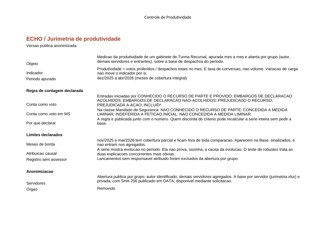
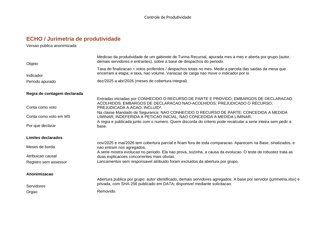
Auditoria P0: nome único do indicador, datas de versão e TROIA
- Hub: "taxa de finalização" no lugar de "entregas conclusivas".
- Controle de Produtividade: indicador renomeado para taxa de
  finalização, com definição; prévia regenerada.
- ATRIO: nota da matriz remete às datas em Evolução; fichas técnicas
  com a data da versão vigente; TROIA citado na arquitetura do RATIO.
- i18n: catálogos EN e páginas EN regenerados.

Claude-Session: https://claude.ai/code/session_01LCaDHpGpC5UNHio4tGaoo2

diff --git a/en/atrio.html b/en/atrio.html
@@ -165,7 +165,7 @@
         <article class="board architecture-board">
           <header class="board-header"><div class="section-index"><strong>02</strong></div><h2>Architecture</h2></header>
           <section class="at-mx" id="at-mx" aria-labelledby="at-mx-t">
-            <header class="at-mx__head"><p class="at-k">Technical sheets</p><h3 class="at-t" id="at-mx-t">Five modules read through the same fields</h3><p class="at-mx__ev">Evidence: [<i class="raw" lang="en">raw</i>] marks verified raw data; the other figures are declared by the author, with no raw record located. Version dates not located.</p></header>
+            <header class="at-mx__head"><p class="at-k">Technical sheets</p><h3 class="at-t" id="at-mx-t">Five modules read through the same fields</h3><p class="at-mx__ev">Evidence: [<i class="raw" lang="en">raw</i>] marks verified raw data; the other figures are declared by the author, with no raw record located. Version dates are under Evolution; the earliest CORPUS and CERNE versions have no recoverable date.</p></header>
             <div class="at-mx__wrap" role="region" aria-labelledby="at-mx-t" tabindex="0">
               <table class="at-mx__table" role="table">
                 <thead role="rowgroup"><tr role="row"><td role="cell"></td><th scope="col" role="columnheader" data-col="atrio"><img class="at-mx__sym" src="../assets/atrio/brand/atrio-rei.svg" alt="" width="44" height="44" loading="lazy" decoding="async"><span class="at-mx__name">A<em>T</em>RIO</span><span class="at-mx__role">Orchestration</span><span class="at-mx__ver">v.0.7.0</span></th><th scope="col" role="columnheader" data-col="corpus"><img class="at-mx__sym" src="../assets/atrio/brand/corpus-torre.svg" alt="" width="44" height="44" loading="lazy" decoding="async"><span class="at-mx__name">C<em>O</em>RPUS</span><span class="at-mx__role">Documentary memory</span><span class="at-mx__ver">v.1.5.0</span></th><th scope="col" role="columnheader" data-col="ratio"><img class="at-mx__sym" src="../assets/atrio/brand/ratio-cavalo.svg" alt="" width="44" height="44" loading="lazy" decoding="async"><span class="at-mx__name">R<em>A</em>TIO</span><span class="at-mx__role">Decision drafting</span><span class="at-mx__ver">v.8.0.0</span></th><th scope="col" role="columnheader" data-col="cerne"><img class="at-mx__sym" src="../assets/atrio/brand/cerne-rainha.svg" alt="" width="44" height="44" loading="lazy" decoding="async"><span class="at-mx__name">C<em>E</em>RNE</span><span class="at-mx__role">Reasoning audit</span><span class="at-mx__ver">v.5.1.0</span></th><th scope="col" role="columnheader" data-col="lux"><img class="at-mx__sym" src="../assets/atrio/brand/lux-bispo.svg" alt="" width="44" height="44" loading="lazy" decoding="async"><span class="at-mx__name">L<em>U</em>X</span><span class="at-mx__role">Formal refinement</span><span class="at-mx__ver">v.6.0.0</span></th></tr></thead>
@@ -173,7 +173,7 @@
                   <tr role="row" class="at-mx__fn"><th scope="row" role="rowheader">Function</th><td role="cell" data-col="atrio">Chains four modules, records each stage, and releases the document only after a human decision.</td><td role="cell" data-col="corpus">Pseudonymizes legal documents; the original and the vault are kept separate.</td><td role="cell" data-col="ratio">Produces draft decisions in phases and only advances upon a recorded human choice.</td><td role="cell" data-col="cerne">Audits the reasoning of judicial rulings through anchored questions; it does not decide the merits.</td><td role="cell" data-col="lux">Refines legal texts, protects data according to destination, and preserves the merits.</td></tr>
                   <tr role="row"><th scope="row" role="rowheader">Input</th><td role="cell" data-col="atrio">TXT, DOCX, or PDF file and a declared destination (internal, external, or public).</td><td role="cell" data-col="corpus">PDF or TXT files, with local OCR for scans and identification by hash.<div class="at-mx__evwrap"><button class="at-mx__btn at-mx__btn--ghost at-mx__ev" type="button" data-evidence="corpus-entrada" aria-haspopup="dialog" aria-controls="evidence-note" aria-expanded="false" aria-label="Evidence: CORPUS, input">Evidence <span aria-hidden="true">→</span></button></div></td><td role="cell" data-col="ratio">Document and case file, with the chosen track: small-claims appeal, motion for clarification, or writ of mandamus.</td><td role="cell" data-col="cerne">Injunction, judgment, opinion, or appellate decision, with its source and between 40 and 250,000 characters.</td><td role="cell" data-col="lux">Finalized legal text and the declared destination; if none is given, the destination is public.</td></tr>
                   <tr role="row"><th scope="row" role="rowheader">Output</th><td role="cell" data-col="atrio">Released document and a record of the events, states, and versions of each run.</td><td role="cell" data-col="corpus">Pseudonymized text; original preserved; separate vault; inventory and log.<div class="at-mx__evwrap"><button class="at-mx__btn at-mx__btn--ghost at-mx__ev" type="button" data-evidence="corpus-saida" aria-haspopup="dialog" aria-controls="evidence-note" aria-expanded="false" aria-label="Evidence: CORPUS, output">Evidence <span aria-hidden="true">→</span></button></div></td><td role="cell" data-col="ratio">Traceable draft, case status, and pending items, with the status of each phase.<div class="at-mx__evwrap"><button class="at-mx__btn at-mx__btn--ghost at-mx__ev" type="button" data-evidence="ratio-saida" aria-haspopup="dialog" aria-controls="evidence-note" aria-expanded="false" aria-label="Evidence: RATIO, output">Evidence <span aria-hidden="true">→</span></button></div></td><td role="cell" data-col="cerne">ACHADO (found) or AFASTADO (dismissed) for each doubt, with questions per passage and a report.<div class="at-mx__evwrap"><button class="at-mx__btn at-mx__btn--ghost at-mx__ev" type="button" data-evidence="cerne-saida" aria-haspopup="dialog" aria-controls="evidence-note" aria-expanded="false" aria-label="Evidence: CERNE, output">Evidence <span aria-hidden="true">→</span></button></div></td><td role="cell" data-col="lux">Marked-up text, list of changes, and a clean final version matching the marked one.<div class="at-mx__evwrap"><button class="at-mx__btn at-mx__btn--ghost at-mx__ev" type="button" data-evidence="lux-saida" aria-haspopup="dialog" aria-controls="evidence-note" aria-expanded="false" aria-label="Evidence: LUX, output">Evidence <span aria-hidden="true">→</span></button></div></td></tr>
-                  <tr role="row"><th scope="row" role="rowheader">Architecture</th><td role="cell" data-col="atrio">CORPUS → RATIO → CERNE → LUX → integrity → release; 31 routes and 33 HTTP operations [<i class="raw" lang="en">raw</i>].</td><td role="cell" data-col="corpus">Hash and deduplication → extraction and OCR → confidentiality screening → pseudonymization → vault → inventory.</td><td role="cell" data-col="ratio">3 tracks and 18 phases (appeal 6, motion 5, writ 7); a substantial change invalidates the dependent phases.</td><td role="cell" data-col="cerne">Segmentation and anchors → independent confrontation → questions consolidated passage by passage.</td><td role="cell" data-col="lux">Data protection → untouchable passages → formal revision → validation → final delivery.</td></tr>
+                  <tr role="row"><th scope="row" role="rowheader">Architecture</th><td role="cell" data-col="atrio">CORPUS → RATIO → CERNE → LUX → integrity → release; 31 routes and 33 HTTP operations [<i class="raw" lang="en">raw</i>].</td><td role="cell" data-col="corpus">Hash and deduplication → extraction and OCR → confidentiality screening → pseudonymization → vault → inventory.</td><td role="cell" data-col="ratio">3 tracks and 18 phases (appeal 6, motion 5, writ 7); a substantial change invalidates the dependent phases. TROIA, inside RATIO, attacks the draft from within with counterfactual tests.</td><td role="cell" data-col="cerne">Segmentation and anchors → independent confrontation → questions consolidated passage by passage.</td><td role="cell" data-col="lux">Data protection → untouchable passages → formal revision → validation → final delivery.</td></tr>
                   <tr role="row"><th scope="row" role="rowheader">Governance</th><td role="cell" data-col="atrio">3 human wait points and 3 blocks; out-of-order transitions are refused.</td><td role="cell" data-col="corpus">6 interruptions for duplication, failures, insufficiency, or confidentiality, with human review.</td><td role="cell" data-col="ratio">8 gates, at least 18 hard stops, and 9 human validation points along the path.<div class="at-mx__evwrap"><button class="at-mx__btn at-mx__btn--ghost at-mx__ev" type="button" data-evidence="ratio-governanca" aria-haspopup="dialog" aria-controls="evidence-note" aria-expanded="false" aria-label="Evidence: RATIO, governance">Evidence <span aria-hidden="true">→</span></button></div></td><td role="cell" data-col="cerne">8 hard stops; failure ends the round with no report; the decision on the ruling is human.<div class="at-mx__evwrap"><button class="at-mx__btn at-mx__btn--ghost at-mx__ev" type="button" data-evidence="cerne-governanca" aria-haspopup="dialog" aria-controls="evidence-note" aria-expanded="false" aria-label="Evidence: CERNE, governance">Evidence <span aria-hidden="true">→</span></button></div></td><td role="cell" data-col="lux">12 hard stops preserve passages; delivery is conservative and human review comes afterwards.</td></tr>
                   <tr role="row"><th scope="row" role="rowheader">Privacy</th><td role="cell" data-col="atrio">Pseudonymizes the input (AES-256-GCM, reversible) and anonymizes the public output.</td><td role="cell" data-col="corpus">Pseudonymization reversible through the vault; the base remains subject to data protection.</td><td role="cell" data-col="ratio">No built-in protection; CORPUS pseudonymizes the input and LUX protects the output.</td><td role="cell" data-col="cerne">No built-in protection; uses public or fictitious rulings, which are sent to external APIs.</td><td role="cell" data-col="lux">Public mode anonymizes and pseudonymized mode uses codes; CORPUS keeps the tokens.</td></tr>
                   <tr role="row"><th scope="row" role="rowheader">Tests</th><td role="cell" data-col="atrio">188 passed; 219 functions in the code [<i class="raw" lang="en">raw</i>]; run not archived.</td><td role="cell" data-col="corpus">37 functions in the code [<i class="raw" lang="en">raw</i>], 26 for the API and 11 for detection; no archived run.</td><td role="cell" data-col="ratio">72 functions in the code [<i class="raw" lang="en">raw</i>]; the result of the most recent run was not located.</td><td role="cell" data-col="cerne">110 functions in the code [<i class="raw" lang="en">raw</i>]; the result of the most recent run was not located.</td><td role="cell" data-col="lux">11 functions in the API [<i class="raw" lang="en">raw</i>]; 11 in the shared library; no run saved.</td></tr>

diff --git a/atrio.html b/atrio.html
@@ -164,7 +164,7 @@
         <article class="board architecture-board">
           <header class="board-header"><div class="section-index"><strong>02</strong></div><h2>Arquitetura</h2></header>
           <section class="at-mx" id="at-mx" aria-labelledby="at-mx-t">
-            <header class="at-mx__head"><p class="at-k">Fichas técnicas</p><h3 class="at-t" id="at-mx-t">Cinco módulos lidos pelos mesmos campos</h3><p class="at-mx__ev">Evidência: [<i class="raw" lang="en">raw</i>] marca dado bruto conferido; os demais números são declarados pelo autor, sem registro bruto localizado. Datas de versão não localizadas.</p></header>
+            <header class="at-mx__head"><p class="at-k">Fichas técnicas</p><h3 class="at-t" id="at-mx-t">Cinco módulos lidos pelos mesmos campos</h3><p class="at-mx__ev">Evidência: [<i class="raw" lang="en">raw</i>] marca dado bruto conferido; os demais números são declarados pelo autor, sem registro bruto localizado. Datas de versão em Evolução; as primeiras versões de CORPUS e CERNE não têm data recuperável.</p></header>
             <div class="at-mx__wrap" role="region" aria-labelledby="at-mx-t" tabindex="0">
               <table class="at-mx__table" role="table">
                 <thead role="rowgroup"><tr role="row"><td role="cell"></td><th scope="col" role="columnheader" data-col="atrio"><img class="at-mx__sym" src="assets/atrio/brand/atrio-rei.svg" alt="" width="44" height="44" loading="lazy" decoding="async"><span class="at-mx__name">A<em>T</em>RIO</span><span class="at-mx__role">Orquestração</span><span class="at-mx__ver">v.0.7.0</span></th><th scope="col" role="columnheader" data-col="corpus"><img class="at-mx__sym" src="assets/atrio/brand/corpus-torre.svg" alt="" width="44" height="44" loading="lazy" decoding="async"><span class="at-mx__name">C<em>O</em>RPUS</span><span class="at-mx__role">Memória documental</span><span class="at-mx__ver">v.1.5.0</span></th><th scope="col" role="columnheader" data-col="ratio"><img class="at-mx__sym" src="assets/atrio/brand/ratio-cavalo.svg" alt="" width="44" height="44" loading="lazy" decoding="async"><span class="at-mx__name">R<em>A</em>TIO</span><span class="at-mx__role">Formulação decisória</span><span class="at-mx__ver">v.8.0.0</span></th><th scope="col" role="columnheader" data-col="cerne"><img class="at-mx__sym" src="assets/atrio/brand/cerne-rainha.svg" alt="" width="44" height="44" loading="lazy" decoding="async"><span class="at-mx__name">C<em>E</em>RNE</span><span class="at-mx__role">Auditoria do raciocínio</span><span class="at-mx__ver">v.5.1.0</span></th><th scope="col" role="columnheader" data-col="lux"><img class="at-mx__sym" src="assets/atrio/brand/lux-bispo.svg" alt="" width="44" height="44" loading="lazy" decoding="async"><span class="at-mx__name">L<em>U</em>X</span><span class="at-mx__role">Refinamento formal</span><span class="at-mx__ver">v.6.0.0</span></th></tr></thead>
@@ -172,7 +172,7 @@
                   <tr role="row" class="at-mx__fn"><th scope="row" role="rowheader">Função</th><td role="cell" data-col="atrio">Encadeia quatro módulos, registra etapas e só libera a peça após decisão humana.</td><td role="cell" data-col="corpus">Pseudonimiza documentos jurídicos; o original e o cofre ficam em separado.</td><td role="cell" data-col="ratio">Produz minutas por fases e só avança mediante escolha humana registrada.</td><td role="cell" data-col="cerne">Audita o raciocínio de atos judiciais com perguntas ancoradas; não decide o mérito.</td><td role="cell" data-col="lux">Refina textos jurídicos, protege os dados conforme o destino e preserva o mérito.</td></tr>
                   <tr role="row"><th scope="row" role="rowheader">Entrada</th><td role="cell" data-col="atrio">Arquivo TXT, DOCX ou PDF e destino declarado (interno, externo ou público).</td><td role="cell" data-col="corpus">Arquivos PDF ou TXT, com OCR local para digitalizações e identificação por hash.<div class="at-mx__evwrap"><button class="at-mx__btn at-mx__btn--ghost at-mx__ev" type="button" data-evidence="corpus-entrada" aria-haspopup="dialog" aria-controls="evidence-note" aria-expanded="false" aria-label="Evidência: CORPUS, entrada">Evidência <span aria-hidden="true">→</span></button></div></td><td role="cell" data-col="ratio">Peça e autos, com a via escolhida: recurso inominado, embargos ou mandado de segurança.</td><td role="cell" data-col="cerne">Liminar, sentença, voto ou acórdão, com origem e entre 40 e 250.000 caracteres.</td><td role="cell" data-col="lux">Texto jurídico concluído e o destino declarado; sem indicação, o destino é público.</td></tr>
                   <tr role="row"><th scope="row" role="rowheader">Saída</th><td role="cell" data-col="atrio">Peça liberada e registro dos eventos, estados e versões de cada execução.</td><td role="cell" data-col="corpus">Texto pseudonimizado; original preservado; cofre separado; inventário e log.<div class="at-mx__evwrap"><button class="at-mx__btn at-mx__btn--ghost at-mx__ev" type="button" data-evidence="corpus-saida" aria-haspopup="dialog" aria-controls="evidence-note" aria-expanded="false" aria-label="Evidência: CORPUS, saída">Evidência <span aria-hidden="true">→</span></button></div></td><td role="cell" data-col="ratio">Minuta rastreável, estado do caso e pendências, com a situação de cada fase.<div class="at-mx__evwrap"><button class="at-mx__btn at-mx__btn--ghost at-mx__ev" type="button" data-evidence="ratio-saida" aria-haspopup="dialog" aria-controls="evidence-note" aria-expanded="false" aria-label="Evidência: RATIO, saída">Evidência <span aria-hidden="true">→</span></button></div></td><td role="cell" data-col="cerne">ACHADO ou AFASTADO para cada dúvida, com perguntas por trecho e relatório.<div class="at-mx__evwrap"><button class="at-mx__btn at-mx__btn--ghost at-mx__ev" type="button" data-evidence="cerne-saida" aria-haspopup="dialog" aria-controls="evidence-note" aria-expanded="false" aria-label="Evidência: CERNE, saída">Evidência <span aria-hidden="true">→</span></button></div></td><td role="cell" data-col="lux">Texto marcado, lista de alterações e versão final limpa, correspondente à marcada.<div class="at-mx__evwrap"><button class="at-mx__btn at-mx__btn--ghost at-mx__ev" type="button" data-evidence="lux-saida" aria-haspopup="dialog" aria-controls="evidence-note" aria-expanded="false" aria-label="Evidência: LUX, saída">Evidência <span aria-hidden="true">→</span></button></div></td></tr>
-                  <tr role="row"><th scope="row" role="rowheader">Arquitetura</th><td role="cell" data-col="atrio">CORPUS → RATIO → CERNE → LUX → integridade → liberação; 31 rotas e 33 operações HTTP [<i class="raw" lang="en">raw</i>].</td><td role="cell" data-col="corpus">Hash e deduplicação → extração e OCR → triagem de sigilo → pseudonimização → cofre → inventário.</td><td role="cell" data-col="ratio">3 vias e 18 fases (RI 6, ED 5, MS 7); uma alteração substancial invalida as fases dependentes.</td><td role="cell" data-col="cerne">Segmentação e âncoras → confronto independente → perguntas consolidadas trecho a trecho.</td><td role="cell" data-col="lux">Proteção de dados → trechos intocáveis → revisão formal → validação → entrega final.</td></tr>
+                  <tr role="row"><th scope="row" role="rowheader">Arquitetura</th><td role="cell" data-col="atrio">CORPUS → RATIO → CERNE → LUX → integridade → liberação; 31 rotas e 33 operações HTTP [<i class="raw" lang="en">raw</i>].</td><td role="cell" data-col="corpus">Hash e deduplicação → extração e OCR → triagem de sigilo → pseudonimização → cofre → inventário.</td><td role="cell" data-col="ratio">3 vias e 18 fases (RI 6, ED 5, MS 7); uma alteração substancial invalida as fases dependentes. O TROIA, interno ao RATIO, ataca a minuta por dentro com testes contrafactuais.</td><td role="cell" data-col="cerne">Segmentação e âncoras → confronto independente → perguntas consolidadas trecho a trecho.</td><td role="cell" data-col="lux">Proteção de dados → trechos intocáveis → revisão formal → validação → entrega final.</td></tr>
                   <tr role="row"><th scope="row" role="rowheader">Governança</th><td role="cell" data-col="atrio">3 pontos de espera humana e 3 bloqueios; transições fora de ordem são recusadas.</td><td role="cell" data-col="corpus">6 interrupções por duplicidade, falhas, insuficiência ou sigilo, com revisão humana.</td><td role="cell" data-col="ratio">8 gates, ao menos 18 hard stops e 9 pontos de validação humana durante o percurso.<div class="at-mx__evwrap"><button class="at-mx__btn at-mx__btn--ghost at-mx__ev" type="button" data-evidence="ratio-governanca" aria-haspopup="dialog" aria-controls="evidence-note" aria-expanded="false" aria-label="Evidência: RATIO, governança">Evidência <span aria-hidden="true">→</span></button></div></td><td role="cell" data-col="cerne">8 hard stops; falha encerra a rodada sem relatório; a decisão sobre o ato é humana.<div class="at-mx__evwrap"><button class="at-mx__btn at-mx__btn--ghost at-mx__ev" type="button" data-evidence="cerne-governanca" aria-haspopup="dialog" aria-controls="evidence-note" aria-expanded="false" aria-label="Evidência: CERNE, governança">Evidência <span aria-hidden="true">→</span></button></div></td><td role="cell" data-col="lux">12 hard stops preservam trechos; a entrega é conservadora e a revisão humana, posterior.</td></tr>
                   <tr role="row"><th scope="row" role="rowheader">Privacidade</th><td role="cell" data-col="atrio">Pseudonimiza a entrada (AES-256-GCM, reversível) e anonimiza a saída pública.</td><td role="cell" data-col="corpus">Pseudonimização reversível pelo cofre; a base segue sujeita à proteção de dados.</td><td role="cell" data-col="ratio">Não tem proteção própria; CORPUS pseudonimiza a entrada e LUX protege a saída.</td><td role="cell" data-col="cerne">Sem proteção própria; usa atos públicos ou fictícios, que são enviados a APIs externas.</td><td role="cell" data-col="lux">O modo público anonimiza e o pseudonimizado usa códigos; o CORPUS conserva os tokens.</td></tr>
                   <tr role="row"><th scope="row" role="rowheader">Testes</th><td role="cell" data-col="atrio">188 aprovados; 219 funções no código [<i class="raw" lang="en">raw</i>]; execução não arquivada.</td><td role="cell" data-col="corpus">37 funções no código [<i class="raw" lang="en">raw</i>], sendo 26 de API e 11 de detecção; sem execução arquivada.</td><td role="cell" data-col="ratio">72 funções no código [<i class="raw" lang="en">raw</i>]; o resultado da execução mais recente não foi localizado.</td><td role="cell" data-col="cerne">110 funções no código [<i class="raw" lang="en">raw</i>]; o resultado da execução mais recente não foi localizado.</td><td role="cell" data-col="lux">11 funções na API [<i class="raw" lang="en">raw</i>]; 11 na biblioteca compartilhada; nenhuma execução salva.</td></tr>

diff --git a/arco.html b/arco.html
@@ -292,7 +292,7 @@
                     <span class="arx-col__mov">Tecnologia</span><span class="arx-col__plus" aria-hidden="true">▶</span>
                     <span class="arx-sr"> — ATRIO</span>
                   </button>
-                  <p class="arx-col__txt" lang="pt-BR">O terceiro movimento surgiu quando o raciocínio, ao encontrar a inteligência artificial, tentou acelerar antes do método. Em resposta, concebi o <span class="b-atrio">ATRIO</span>, arquitetura de IA jurídica: governança, auditoria, proteção de dados. Implementado quando as entregas conclusivas da operação cresceram <span tabindex="0" role="note" data-datum data-regime="derivacao" data-source="60,39% − 44,21% | votos ÷ despachos proferidos × 100" data-denominator="Equipe da 2ª Turma Recursal | série integral" data-period="dez/2025 – abr/2026 | cinco meses integrais">16,18 p.p.</span> em cinco meses. A IA não substitui a decisão: opera em percurso governado.</p>
+                  <p class="arx-col__txt" lang="pt-BR">O terceiro movimento surgiu quando o raciocínio, ao encontrar a inteligência artificial, tentou acelerar antes do método. Em resposta, concebi o <span class="b-atrio">ATRIO</span>, arquitetura de IA jurídica: governança, auditoria, proteção de dados. Implementado quando a taxa de finalização da operação cresceu <span tabindex="0" role="note" data-datum data-regime="derivacao" data-source="60,39% − 44,21% | votos ÷ despachos proferidos × 100" data-denominator="Equipe da 2ª Turma Recursal | série integral" data-period="dez/2025 – abr/2026 | cinco meses integrais">16,18 p.p.</span> em cinco meses. A IA não substitui a decisão: opera em percurso governado.</p>
                 </div>
               </div>
 
@@ -423,7 +423,7 @@
                 <article class="arx-sum" data-sys="atrio" aria-labelledby="arx-sum-t-atrio">
                   <section class="arx-cell arx-mov" style="--w:4">
                     <h4 class="arx-k">Movimento</h4>
-                    <p lang="pt-BR">O terceiro movimento surgiu quando o raciocínio, ao encontrar a inteligência artificial, tentou acelerar antes do método. Em resposta, concebi o <button class="b-atrio" type="button" data-arx-comp="atrio" aria-controls="arx-summary">ATRIO</button>, arquitetura de IA jurídica: governança, auditoria, proteção de dados. Implementado quando as entregas conclusivas da operação cresceram <span tabindex="0" role="note" data-datum data-regime="derivacao" data-source="60,39% − 44,21% | votos ÷ despachos proferidos × 100" data-denominator="Equipe da 2ª Turma Recursal | série integral" data-period="dez/2025 – abr/2026 | cinco meses integrais">16,18 p.p.</span> em cinco meses. A IA não substitui a decisão: opera em percurso governado.</p>
+                    <p lang="pt-BR">O terceiro movimento surgiu quando o raciocínio, ao encontrar a inteligência artificial, tentou acelerar antes do método. Em resposta, concebi o <button class="b-atrio" type="button" data-arx-comp="atrio" aria-controls="arx-summary">ATRIO</button>, arquitetura de IA jurídica: governança, auditoria, proteção de dados. Implementado quando a taxa de finalização da operação cresceu <span tabindex="0" role="note" data-datum data-regime="derivacao" data-source="60,39% − 44,21% | votos ÷ despachos proferidos × 100" data-denominator="Equipe da 2ª Turma Recursal | série integral" data-period="dez/2025 – abr/2026 | cinco meses integrais">16,18 p.p.</span> em cinco meses. A IA não substitui a decisão: opera em percurso governado.</p>
                   </section>
                   <header class="arx-cell arx-lede" style="--w:8">
                     <span class="arx-plate arx-plate--lede"><img src="assets/atrio/brand/atrio-rei.svg" alt="" width="48" height="48" decoding="async"></span>

diff --git a/en/arco.html b/en/arco.html
@@ -291,7 +291,7 @@
                     <span class="arx-col__mov">Technology</span><span class="arx-col__plus" aria-hidden="true">▶</span>
                     <span class="arx-sr"> — ATRIO</span>
                   </button>
-                  <p class="arx-col__txt" lang="pt-BR">The third movement arose when reasoning, on meeting artificial intelligence, tried to accelerate ahead of method. In response, I designed <span class="b-atrio">ATRIO</span>, a legal AI architecture: governance, audit, data protection. Implemented as the operation’s conclusive deliverables rose by <span tabindex="0" role="note" data-datum data-regime="derivacao" data-source="60.39% − 44.21% | opinions ÷ orders issued × 100" data-denominator="2nd Appellate Panel team | full series" data-period="Dec 2025 – Apr 2026 | five full months">16.18 pp</span> in five months. AI does not replace the decision: it operates on a governed path.</p>
+                  <p class="arx-col__txt" lang="pt-BR">The third movement arose when reasoning, on meeting artificial intelligence, tried to accelerate ahead of method. In response, I designed <span class="b-atrio">ATRIO</span>, a legal AI architecture: governance, audit, data protection. Implemented as the operation’s finalization rate rose by <span tabindex="0" role="note" data-datum data-regime="derivacao" data-source="60.39% − 44.21% | opinions ÷ orders issued × 100" data-denominator="2nd Appellate Panel team | full series" data-period="Dec 2025 – Apr 2026 | five full months">16.18 pp</span> in five months. AI does not replace the decision: it operates on a governed path.</p>
                 </div>
               </div>
 
@@ -422,7 +422,7 @@
                 <article class="arx-sum" data-sys="atrio" aria-labelledby="arx-sum-t-atrio">
                   <section class="arx-cell arx-mov" style="--w:4">
                     <h4 class="arx-k">Movement</h4>
-                    <p lang="pt-BR">The third movement arose when reasoning, on meeting artificial intelligence, tried to accelerate ahead of method. In response, I designed <button class="b-atrio" type="button" data-arx-comp="atrio" aria-controls="arx-summary">ATRIO</button>, a legal AI architecture: governance, audit, data protection. Implemented as the operation’s conclusive deliverables rose by <span tabindex="0" role="note" data-datum data-regime="derivacao" data-source="60.39% − 44.21% | opinions ÷ orders issued × 100" data-denominator="2nd Appellate Panel team | full series" data-period="Dec 2025 – Apr 2026 | five full months">16.18 pp</span> in five months. AI does not replace the decision: it operates on a governed path.</p>
+                    <p lang="pt-BR">The third movement arose when reasoning, on meeting artificial intelligence, tried to accelerate ahead of method. In response, I designed <button class="b-atrio" type="button" data-arx-comp="atrio" aria-controls="arx-summary">ATRIO</button>, a legal AI architecture: governance, audit, data protection. Implemented as the operation’s finalization rate rose by <span tabindex="0" role="note" data-datum data-regime="derivacao" data-source="60.39% − 44.21% | opinions ÷ orders issued × 100" data-denominator="2nd Appellate Panel team | full series" data-period="Dec 2025 – Apr 2026 | five full months">16.18 pp</span> in five months. AI does not replace the decision: it operates on a governed path.</p>
                   </section>
                   <header class="arx-cell arx-lede" style="--w:8">
                     <span class="arx-plate arx-plate--lede"><img src="../assets/atrio/brand/atrio-rei.svg" alt="" width="48" height="48" decoding="async"></span>

diff --git a/assets/atrio/docs/FT_RATIO.md b/assets/atrio/docs/FT_RATIO.md
@@ -2,7 +2,7 @@
 
 (A) dado bruto conferido; (B) declarado pelo autor.
 
-| **Função** | Elabora a minuta em fases, uma via processual por vez, e só avança com escolha humana registrada. | **Versão** | 8.0.0. Data: [NÃO LOCALIZADO]. |
+| **Função** | Elabora a minuta em fases, uma via processual por vez, e só avança com escolha humana registrada. | **Versão** | 8.0.0. Data: 28/09/2026. |
 |---|---|---|---|
 | **Entrada** | Peça, autos e via declarada pelo operador: recurso inominado, embargos de declaração ou mandado de segurança. | **Saída** | Minuta rastreável, estado do caso e pendências nomeadas. Cada fase fica validada, bloqueada ou invalidada. |
 | **Arquitetura** | 3 vias e 18 fases: 6 no recurso inominado, 5 nos embargos e 7 no mandado de segurança. | **Governança** | 8 gates, 18 hard stops mínimos e 9 pontos de validação humana, da escolha da via à liberação. |

diff --git a/assets/atrio/docs/FT_CERNE.md b/assets/atrio/docs/FT_CERNE.md
@@ -2,7 +2,7 @@
 
 (A) dado bruto conferido; (B) declarado pelo autor.
 
-| **Função** | Audita o raciocínio de atos judiciais e devolve perguntas presas a trechos, sem julgar o ato. | **Versão** | 5.1.0. Data: [NÃO LOCALIZADO]. |
+| **Função** | Audita o raciocínio de atos judiciais e devolve perguntas presas a trechos, sem julgar o ato. | **Versão** | 5.1.0. Data: posterior a 12/10/2026, data exata não registrada. |
 |---|---|---|---|
 | **Entrada** | Decisão liminar, sentença, voto ou acórdão, de 40 a 250.000 caracteres. | **Saída** | Perguntas por trecho e relatório técnico. Cada dúvida termina como ACHADO ou AFASTADO. Rodada média de 12,2 min (A). |
 | **Arquitetura** | Formação das dúvidas → confronto independente → consolidação em perguntas. | **Governança** | 8 hard stops. Falha encerra a rodada sem relatório parcial. A decisão sobre o ato é humana. |

diff --git a/assets/atrio/docs/FT_CORPUS.md b/assets/atrio/docs/FT_CORPUS.md
@@ -2,7 +2,7 @@
 
 (A) dado bruto conferido; (B) declarado pelo autor.
 
-| **Função** | Pseudonimiza documentos jurídicos na entrada e guarda base, original e cofre em separado. | **Versão** | 1.5.0. Data: [NÃO LOCALIZADO]. |
+| **Função** | Pseudonimiza documentos jurídicos na entrada e guarda base, original e cofre em separado. | **Versão** | 1.5.0. Data: 26/07/2026. |
 |---|---|---|---|
 | **Entrada** | PDF ou TXT, com OCR local para documento escaneado. | **Saída** | Texto pseudonimizado, inventário e log. Base atual: 115.114 julgados (A). |
 | **Arquitetura** | Hash e deduplicação → extração ou OCR → triagem de segredo → pseudonimização → cofre → inventário. | **Governança** | 6 interrupções: duplicado, texto insuficiente, erro de extração, erro de OCR, OCR abaixo do mínimo e segredo de justiça. Revisão humana do segredo e da reidentificação. |

diff --git a/assets/atrio/docs/FT_ATRIO.md b/assets/atrio/docs/FT_ATRIO.md
@@ -2,7 +2,7 @@
 
 (A) dado bruto conferido; (B) declarado pelo autor.
 
-| **Função** | Encadeia CORPUS, RATIO, CERNE e LUX numa execução registrada e só libera a peça com decisão humana identificada. | **Versão** | API 0.7.0. Data: [NÃO LOCALIZADO]. |
+| **Função** | Encadeia CORPUS, RATIO, CERNE e LUX numa execução registrada e só libera a peça com decisão humana identificada. | **Versão** | API 0.7.0. Data: 07/2026. |
 |---|---|---|---|
 | **Entrada** | Documentos (TXT, DOCX ou PDF) e destino declarado (interno, externo ou público). | **Saída** | Peça liberada, com trilha de eventos e versões por execução. |
 | **Arquitetura** | CORPUS → RATIO → CERNE → LUX → conferência final → liberação. 31 rotas e 33 operações HTTP (A). | **Governança** | 3 paradas para decisão humana e 3 estados de bloqueio. Comando fora de ordem é recusado em código. |

diff --git a/assets/atrio/docs/FT_LUX.md b/assets/atrio/docs/FT_LUX.md
@@ -2,7 +2,7 @@
 
 (A) dado bruto conferido; (B) declarado pelo autor.
 
-| **Função** | Refina a forma de texto já decidido e protege dados conforme o destino, sem tocar no mérito. | **Versão** | 6.0.0. Data: [NÃO LOCALIZADO]. |
+| **Função** | Refina a forma de texto já decidido e protege dados conforme o destino, sem tocar no mérito. | **Versão** | 6.0.0. Data: 07/2026. |
 |---|---|---|---|
 | **Entrada** | Texto jurídico pronto e destino declarado, que por padrão é público. | **Saída** | Texto marcado, lista de alterações e versão limpa. |
 | **Arquitetura** | Proteção de dados → marcação dos trechos intocáveis → revisão → validação → entrega. | **Governança** | 12 hard stops. Diante deles, preserva o trecho original. Validação humana depois da entrega. |
